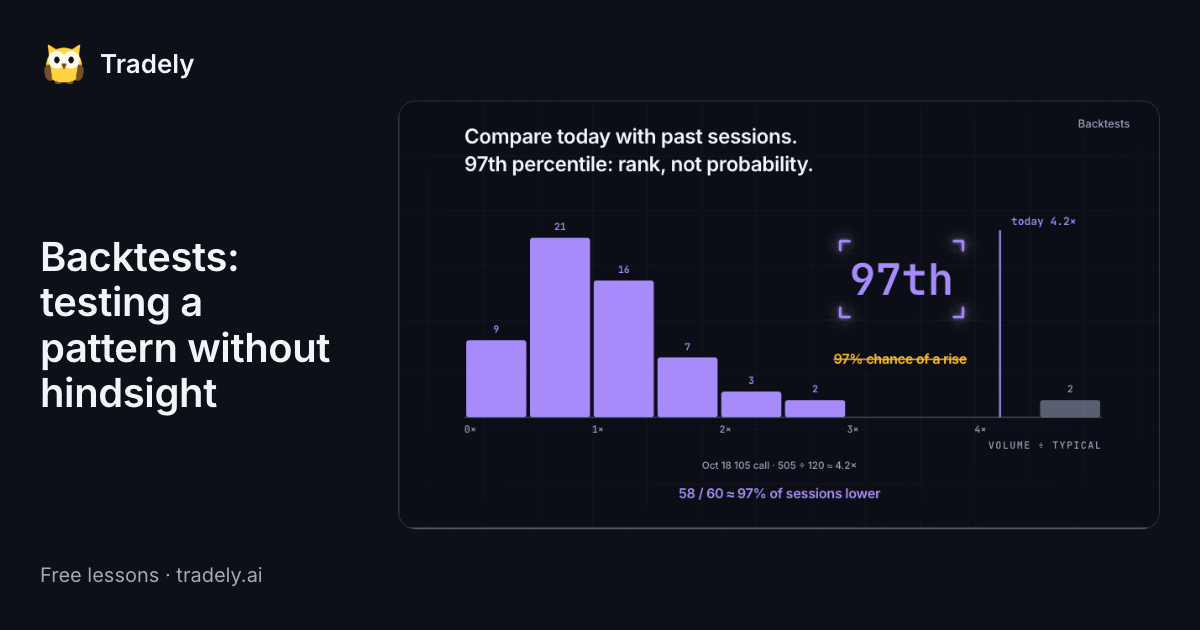
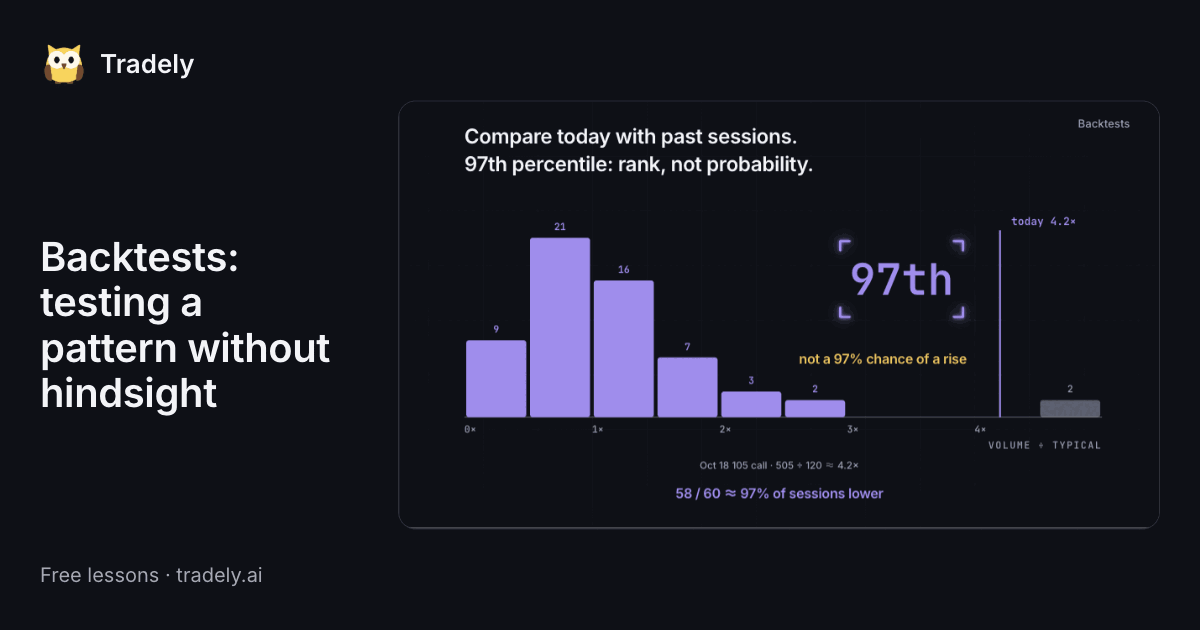
fix(learning): backtest film says not a 97% chance outright and names the 52%
The struck-through "97% chance of a rise" becomes "not a 97% chance of a rise" with no strike; four of six juries read the struck line as a claim. The holdout label reads "Jul–Aug, same rule: 52%". The share card shows the first.

From the two jury runs of 2026-11-15 after the first fixes: each change answers a finding that at least three of six juries shared. No existing step of the timeline moved.

Changed region(s): [[0.555, 0.7238, 0.74, 0.8143], [0.6783, 0.5429, 0.8017, 0.573], [0.0308, 0.0905, 0.0617, 0.1508]]

diff --git a/apps/web/src/features/learning/lessons/point-in-time-research-film.tsx b/apps/web/src/features/learning/lessons/point-in-time-research-film.tsx
@@ -41,14 +41,14 @@ import {
  * may it use for the block? The arrivals answer: only the first report, $2.51; the
  * correction to $2.15 arrives later, and the 120 call's volume not until Tuesday. The hero
  * is a percentile: today's 4.2× beats 58 of 60 sessions, the 97th percentile, and glowing
- * brackets lock on a rank that is not a probability. Last, ten thresholds tried on
+ * brackets lock on a rank that is not a chance of a rise. Last, ten thresholds tried on
  * Jan–Jun, the best at 70%, and the same rule frozen and run once on Jul–Aug: 52%.
  *
  *   open      0–4        "Backtests"
  *   question  4–8.6      a decision at the first cutoff: which price?
  *   cutoff    8.6–20.2   arrivals; first report, correction at the next cutoff; Tuesday's data
- *   rank      20.2–29.3  hero: 60 sessions; 4.2× at the 97th percentile; not a probability
- *   holdout   29.3–38.0  ten thresholds; the winner 70%; the holdout 52%
+ *   rank      20.2–29.3  hero: 60 sessions; 4.2× at the 97th percentile; not a chance of a rise
+ *   holdout   29.3–38.0  ten thresholds; the winner 70%; the holdout 52% rose next day
  *   claim     38.0–42.4  only what was known, and test once
  *   next      42.4–44.9  Next: the module checkpoint
  */
@@ -98,6 +98,9 @@ function layout(width: number) {
 		histH: (days: number) => (days / MAX_DAYS) * (histBottom - histTop),
 		barSlot,
 		barX: (i: number) => margin + i * barSlot,
+		holdoutX: narrow ? width / 2 : margin + (BEST_INDEX + 1.7) * barSlot,
+		holdoutY: H * 0.83,
+		frozenRuleY: H * 0.89,
 		pctY: (pct: number) =>
 			histBottom - ((pct - 40) / 40) * (histBottom - histTop),
 	};
@@ -154,7 +157,11 @@ const copy = {
 		`Frozen rule: volume above ${best.threshold}× typical.`,
 		`冻结规则：成交量超过常态的 ${best.threshold}×。`,
 	],
-	holdout: [`Jul–Aug observed ${HOLDOUT}%`, `7–8 月样本外实测：${HOLDOUT}%`],
+	holdout: [`Jul–Aug, same rule: ${HOLDOUT}%`, `7–8 月，同一规则：${HOLDOUT}%`],
+	notChance: [
+		`not a ${PERCENTILE}% chance of a rise`,
+		`不是 ${PERCENTILE}% 的上涨概率`,
+	],
 	claimBig: [
 		"Use only what was known, and test once.",
 		"只用当时已知的，并且只检验一次。",
@@ -483,9 +490,16 @@ function Scene({
 				y={narrow ? L.histTop + T.num * 3.7 : L.heroY + T.num * 1.3 + 32}
 				textAnchor="end"
 				className={`wt-film-type ${toneClass.caution}`}
-				style={{ fontSize: text, textDecoration: "line-through" }}
+				style={{ fontSize: text }}
 			>
-				{`${PERCENTILE}% ${t(["chance of a rise", "上涨概率"])}`}
+				{(narrow && locale === "en"
+					? t(copy.notChance).split(/ (?=of )/)
+					: [t(copy.notChance)]
+				).map((line, i) => (
+					<tspan key={line} x={L.misreadingRight} dy={i === 0 ? 0 : text * 1.3}>
+						{line}
+					</tspan>
+				))}
 			</text>
 
 			{/* Many rules tried, one test kept. */}
@@ -580,7 +594,7 @@ function Scene({
 				name="frozen-rule"
 				text={t(copy.frozen)}
 				x={W / 2}
-				y={H * 0.89}
+				y={L.frozenRuleY}
 				size={T.body}
 				maxWidth={room}
 			/>
@@ -590,13 +604,17 @@ function Scene({
 					style={{ stroke: "var(--diagram-accent)", strokeWidth: 3 }}
 				/>
 				<text
-					x={narrow ? W / 2 : L.barX(BEST_INDEX) + L.barSlot * 1.7}
-					y={narrow ? H * 0.83 : L.pctY(HOLDOUT) + T.small * 0.4}
+					x={L.holdoutX}
+					y={narrow ? L.holdoutY : L.pctY(HOLDOUT) + T.small * 0.4}
 					textAnchor={narrow ? "middle" : "start"}
 					className="wt-film-num wt-film-accent wt-halo"
-					style={{ fontSize: narrow ? T.body : text }}
+					style={{ fontSize: T.body }}
 				>
-					{t(copy.holdout)}
+					{[t(copy.holdout)].map((line, i) => (
+						<tspan key={line} x={L.holdoutX} dy={i === 0 ? 0 : T.body * 1.35}>
+							{line.trim()}
+						</tspan>
+					))}
 				</text>
 			</g>
 
@@ -882,8 +900,8 @@ function build(context: FilmContext) {
 export const pointInTimeResearchFilm: Film = {
 	id: "point-in-time-research",
 	label: [
-		`Backtests, as a short film: Monday's facts about the Oct 18 105 call in the order they arrived, including T-1 at ${usd(FIRST_PRICE)} (${usd(FIRST_PRICE * CONTRACT_MULTIPLIER, 0)} a contract); a decision replayed at ${openingDecisionTime[0]} may use only the block's first report at ${usd(REPORTED)} (${usd(REPORTED * CONTRACT_MULTIPLIER, 0)} a contract), one at ${timeOnly(correctionCutoff.time)[0]} the corrected ${usd(CORRECTED)} (${usd(CORRECTED * CONTRACT_MULTIPLIER, 0)} a contract), and none the 120 call's volume that arrives Tuesday; today's ${TODAY}× against ${SESSIONS} past sessions, the ${PERCENTILE}th percentile, which is a rank and not a ${PERCENTILE}% chance of a rise; and ${tried.length} thresholds tried on Jan–Jun, the best followed by a rise ${best.rose}% of the time, and the same rule frozen and run once on Jul–Aug at ${HOLDOUT}%`,
-		`回测短片：周一关于 10月18日 105 看涨的事实按到达顺序排列，包括 T-1 的 ${usd(FIRST_PRICE)}（每张 ${usd(FIRST_PRICE * CONTRACT_MULTIPLIER, 0)}）；在 ${openingDecisionTime[1]} 重放的决策只能用大单首次报告的 ${usd(REPORTED)}（每张 ${usd(REPORTED * CONTRACT_MULTIPLIER, 0)}），${timeOnly(correctionCutoff.time)[1]} 的决策可以用更正后的 ${usd(CORRECTED)}（每张 ${usd(CORRECTED * CONTRACT_MULTIPLIER, 0)}），而周二才到的 120 看涨成交量哪个都不能用；今天的 ${TODAY}× 对照过去 ${SESSIONS} 个交易日，是第 ${PERCENTILE} 百分位，这是排名而不是 ${PERCENTILE}% 的上涨概率；以及在 1–6 月数据上试验的 ${tried.length} 个门槛，最好的一个之后上涨比例 ${best.rose}%，同一规则冻结后在 7–8 月只跑一次，结果为 ${HOLDOUT}%`,
+		`Backtests, as a short film: Monday's facts about the Oct 18 105 call in the order they arrived, including T-1 at ${usd(FIRST_PRICE)} (${usd(FIRST_PRICE * CONTRACT_MULTIPLIER, 0)} a contract); a decision replayed at ${openingDecisionTime[0]} may use only the block's first report at ${usd(REPORTED)} (${usd(REPORTED * CONTRACT_MULTIPLIER, 0)} a contract), one at ${timeOnly(correctionCutoff.time)[0]} the corrected ${usd(CORRECTED)} (${usd(CORRECTED * CONTRACT_MULTIPLIER, 0)} a contract), and none the 120 call's volume that arrives Tuesday; today's ${TODAY}× against ${SESSIONS} past sessions, the ${PERCENTILE}th percentile, which is a rank, not a ${PERCENTILE}% chance of a rise; and ${tried.length} thresholds tried on Jan–Jun, the best followed by a rise ${best.rose}% of the time, and the same rule frozen and run once on Jul–Aug: ${HOLDOUT}% rose next day`,
+		`回测短片：周一关于 10月18日 105 看涨的事实按到达顺序排列，包括 T-1 的 ${usd(FIRST_PRICE)}（每张 ${usd(FIRST_PRICE * CONTRACT_MULTIPLIER, 0)}）；在 ${openingDecisionTime[1]} 重放的决策只能用大单首次报告的 ${usd(REPORTED)}（每张 ${usd(REPORTED * CONTRACT_MULTIPLIER, 0)}），${timeOnly(correctionCutoff.time)[1]} 的决策可以用更正后的 ${usd(CORRECTED)}（每张 ${usd(CORRECTED * CONTRACT_MULTIPLIER, 0)}），而周二才到的 120 看涨成交量哪个都不能用；今天的 ${TODAY}× 对照过去 ${SESSIONS} 个交易日，是第 ${PERCENTILE} 百分位，这是排名，不是 ${PERCENTILE}% 的上涨概率；以及在 1–6 月数据上试验的 ${tried.length} 个门槛，最好的一个之后上涨比例 ${best.rose}%，同一规则冻结后在 7–8 月只跑一次：${HOLDOUT}% 次日上涨`,
 	],
 	stage: "dark",
 	shots: [
